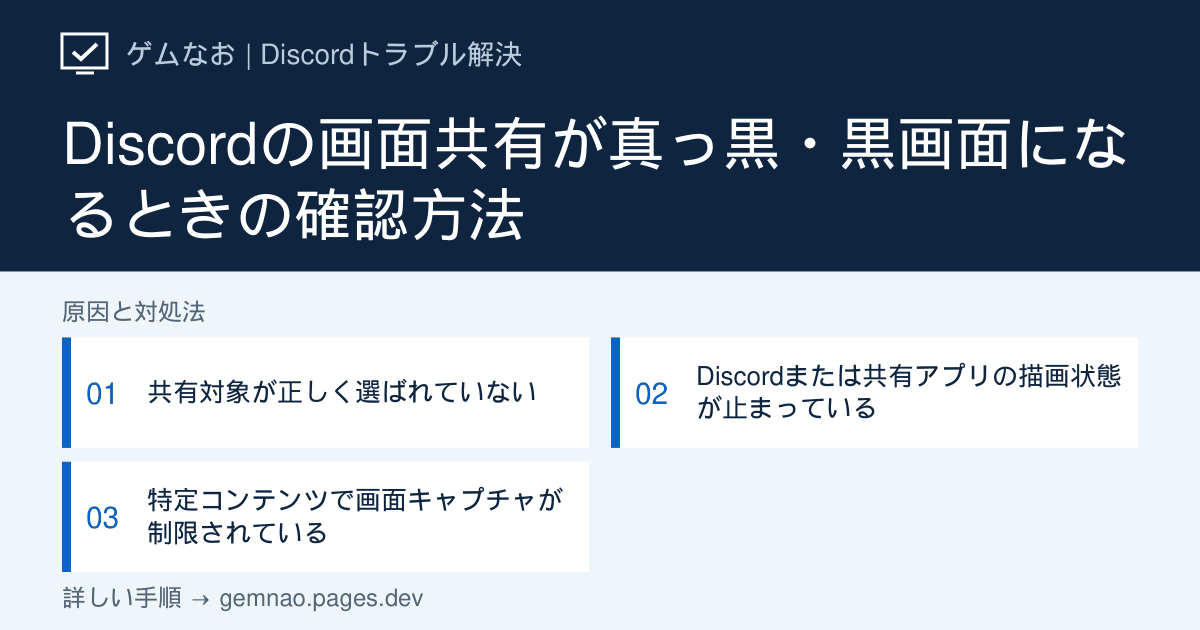
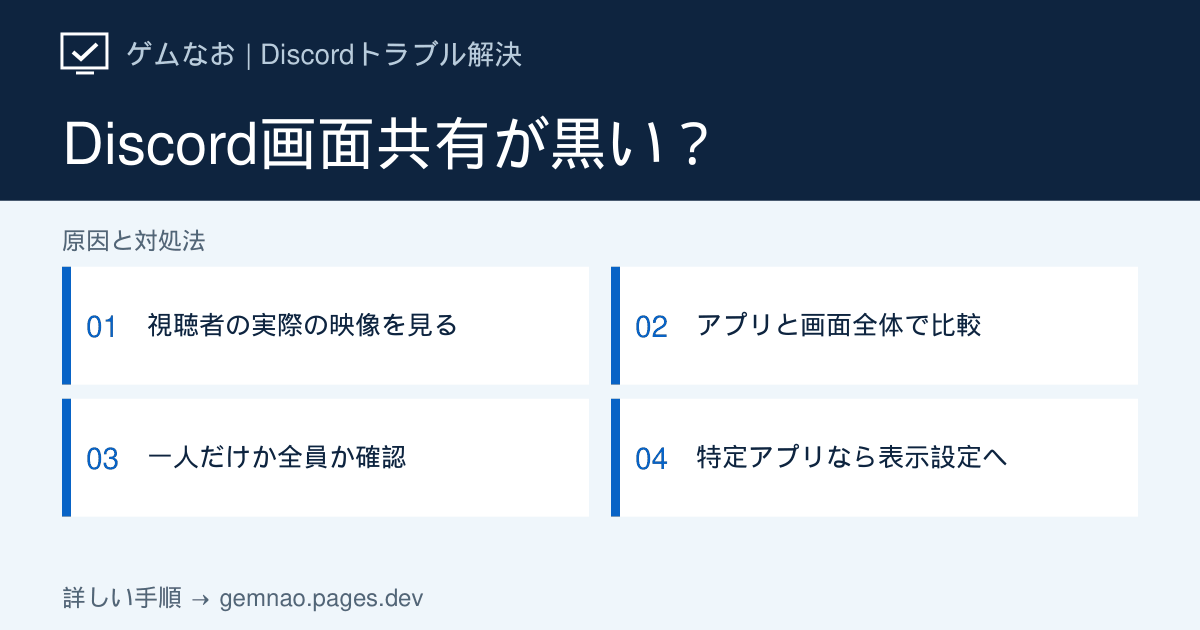
Rewrite Discord black screen sharing guide with viewer diagnosis

diff --git a/lib/discord-p0-articles.ts b/lib/discord-p0-articles.ts
@@ -732,77 +732,169 @@ export const discordP0Articles: DiscordArticle[] = [
   {
     slug: 'screen-share-black-screen',
     category: 'screen',
-    title: 'Discordの画面共有が真っ黒・黒画面になるときの確認方法',
+    title:
+      'Discord画面共有が黒いときの直し方｜配信者・視聴者・特定アプリで切り分け',
     shortTitle: '画面共有が真っ黒になる',
-    seoTitle: 'Discordの画面共有が真っ黒・黒画面になるときの確認方法',
+    seoTitle:
+      'Discord画面共有が黒い原因と直し方｜視聴者だけ・特定アプリだけ黒い場合',
     metaDescription:
-      'Discordの画面共有が真っ黒で相手に映らない場合の確認方法。共有対象、Discordの再起動、OS権限、保護コンテンツかを順に切り分けます。',
+      'Discordの画面共有が黒いとき、配信者の小窓と視聴者の実際の画面を比較。アプリ共有・画面全体共有と複数視聴者で切り分け、結果ごとの対処を解説。',
     symptom:
-      'Discordの画面共有は開始できるのに相手側では映像が黒い、または特定のゲーム・アプリだけ真っ黒になる場合の手順です。',
+      'DiscordでGo Liveは始まったのに、配信者の小窓が黒い、視聴者にだけ真っ黒に映る、特定のゲームやアプリだけ黒い。誰のどの画面が黒いかで次の確認先が変わります。',
     target: 'Windows版 Discordデスクトップアプリの画面共有・Go Live',
     conclusion:
-      '共有対象を選び直し、Discordと共有アプリを再起動します。通常のアプリは映るのに特定コンテンツだけ黒い場合は、コンテンツ側のキャプチャ制限も切り分けてください。',
+      '配信者のゲーム本体・Discordの小窓・視聴者が「配信を見る」で開いた映像を別々に確認します。視聴者も黒ければ、同じメモ帳の文字入力を「アプリ共有」と「画面全体共有」で比べ、特定アプリの取得か視聴者側かを絞ります。',
     quickFixes: [
-      '画面共有を止め、共有するゲームまたはアプリを選び直す',
-      'Discordと共有対象アプリを完全終了して起動し直す',
-      '通常アプリも黒いか、特定コンテンツだけ黒いか確認する',
+      '視聴者に同じボイスチャンネルで「配信を見る」を開いてもらい、配信者の小窓と結果を比べる',
+      'メモ帳のウィンドウを共有して文字を打ち、同じ視聴者に文字が動いて見えるか確認する',
+      '共有を止めて「画面」から対象ディスプレイ全体を選び、同じメモ帳・同じ視聴者で比較する',
+    ],
+    diagnosisTitle: '誰の画面が黒い？ 結果別の判定表',
+    diagnosisIntro:
+      '配信者の小窓・視聴者の実際の視聴画面・共有したいアプリ本体を区別します。別の視聴者にも同じ対象が見えるか確認してください。',
+    diagnosis: [
+      {
+        symptom: '配信者のゲーム本体まで黒い',
+        check:
+          'Discordを止めてもゲーム本体は黒いか。画面共有ではなくゲームの表示問題か',
+        causeIndex: 1,
+      },
+      {
+        symptom: '配信者の小窓・一覧のプレビューだけ黒く、視聴者には映る',
+        check:
+          '視聴者は「配信を見る」で実際の映像を開いたか。文字入力は見えるか',
+        causeIndex: 1,
+      },
+      {
+        symptom: '配信者のゲームは正常だが、視聴者全員に黒い',
+        check: 'メモ帳のアプリ共有と画面全体共有でも同じか',
+        causeIndex: 2,
+      },
+      {
+        symptom: '一人だけ黒く、別の視聴者には映る',
+        check: '両者が同じチャンネル・同じ配信を開いたか',
+        causeIndex: 3,
+      },
+      {
+        symptom: '特定アプリの共有だけ黒い／画面全体なら映る',
+        check: 'メモ帳のアプリ共有は映るか。ゲームは全画面表示か',
+        causeIndex: 4,
+      },
+      {
+        symptom: 'メモ帳も画面全体も複数人に黒い',
+        check: 'Discordの再起動後も、同じ視聴者で両方黒いか',
+        causeIndex: 5,
+      },
+      {
+        symptom: '通常ページは映るが動画の領域だけ黒い',
+        check: '動画サービスの保護コンテンツに限るか',
+        causeIndex: 4,
+      },
     ],
     causes: [
       {
-        title: '共有対象が正しく選ばれていない',
+        title: '最初に「配信者の小窓」と「視聴者の配信画面」を区別する',
         description:
-          '画面全体とアプリ単体では取得方法が異なるため、共有したいアプリを選び直します。',
+          '配信者の小窓や一覧のプレビューが止まっても、視聴者が開いた配信は動いている場合があります。共有したいアプリ本体まで黒いならゲーム・画面の問題を先に調べます。',
         actions: [
-          'いったん画面共有を停止する',
-          '共有したいゲームまたはアプリを先に起動する',
-          'Discordで対象アプリのウィンドウを選ぶ',
-          '共有を開始し、相手側の映像を確認する',
+          '配信者はゲーム／アプリ本体が自分の画面で正常に見えるか確認する。共有をやめても本体が黒いなら、ゲームやWindowsの画面表示を調べる。',
+          '視聴者は同じボイスチャンネルで配信者の名前を押し「配信を見る」から実際の配信を開く。一覧の小さなプレビューだけで判定しない。',
+          '配信者の小窓だけ黒い・一時停止でも、視聴者に文字やゲーム画面が動いて見えれば共有はできている。視聴者も黒いなら次の比較へ進む。',
+        ],
+        note: 'Discord公式は、一覧の配信プレビューを隠せることと、ゲームを前面にすると配信者側のPiPが一時停止することを案内しています。',
+      },
+      {
+        title: '同じメモ帳をアプリ共有と画面全体共有で比べる',
+        description:
+          '変えるのはDiscordで選ぶ共有対象だけ。配信者が同じ文字を入力し、同じ視聴者が2通りの映像を比べます。',
+        actions: [
+          '配信者はメモ帳を開き、ボイスチャンネルの「画面を共有」で「アプリ」からメモ帳のウィンドウを選び、Go Liveを開始する。視聴者に「配信を見る」を開いてもらい、文字を一文字入力して見えるか聞く。',
+          '一度共有を停止し、今度は「画面」からメモ帳を表示しているディスプレイ全体を選ぶ。同じ視聴者に同じメモ帳の文字入力が見えるか聞く。',
+          'アプリ共有だけ黒いならウィンドウ取得や対象選択を疑い、原因4へ。両方全員に黒いなら原因5へ。一人だけ黒いなら原因3へ。両方映るなら元のゲーム／アプリに対象を替えて再比較する。',
+        ],
+        note: '画面全体の共有では通知や別ウィンドウも相手に見えます。テスト前に個人情報のある画面・通知を閉じてください。音声の有無はこの映像比較とは別に判断します。',
+      },
+      {
+        title: '一人の視聴者だけ黒いなら、同じ配信を二人で開く',
+        description:
+          '別の人が同じ配信を正常に視聴できるなら、配信者の画面取得より、黒く見える人の視聴状態を先に確認します。',
+        actions: [
+          '二人目にも同じボイスチャンネルへ入り、同じ配信者の名前から「配信を見る」を開いてもらう。両者が同時にメモ帳の文字入力を見られるか聞く。',
+          '二人目は正常で一人目だけ黒い場合、一人目は配信を閉じ、同じチャンネルへ入り直して同じ配信を開く。Discordアプリを再起動しても変わらなければ、その人の回線・アプリ更新状況を調べる。',
+          '二人とも黒いなら視聴者個別の設定変更を続けず、アプリと画面全体の比較結果を使い、原因4または5へ進む。',
         ],
       },
       {
-        title: 'Discordまたは共有アプリの描画状態が止まっている',
+        title: '特定アプリだけ黒いなら表示モードと共有対象を調べる',
         description:
-          '一時的な描画・取得の状態をリセットするため、両方のアプリを完全終了します。',
+          'メモ帳は映るのにゲームだけ黒い、またはゲームのアプリ共有だけ黒い場合は、そのウィンドウの取得方法を比べます。保護された動画領域だけ黒い場合は別です。',
         actions: [
-          'Discordを通知領域から完全終了する',
-          '共有するゲームまたはアプリも終了する',
-          'Discordを起動してから共有対象アプリを起動する',
-          'もう一度アプリ単体を共有する',
+          'ゲーム／アプリを起動した状態で一度共有を止め、「アプリ」一覧から実際に表示中のウィンドウを選ぶ。ゲーム本体とランチャーが別なら、本体を選ぶ。',
+          'ゲームが全画面表示なら、ゲーム内の表示設定で「ボーダーレス」または「ウィンドウ」に変更して共有し直し、同じ視聴者で比較する。Discord公式はWindowsで全画面専有と画面取得方式の相性を案内している。',
+          'そのアプリだけ黒く画面全体では映るならアプリの取得方法が原因候補。通常ページは映るが特定の保護された動画の領域だけ黒いなら、提供元の許可する視聴・共有方法を確認する。',
         ],
+        note: '全画面表示への変更は必ず元の設定を控えてから行います。保護コンテンツのキャプチャ制限を回避する操作は案内しません。',
       },
       {
-        title: '特定コンテンツで画面キャプチャが制限されている',
+        title: '普通のアプリも画面全体も全員に黒い場合を調べる',
         description:
-          '著作権保護などにより、特定の動画だけ画面キャプチャが制限される場合があります。',
+          '共有方式とアプリを替えても黒い場合は、配信者側のDiscordと描画環境を同じ対象で再確認します。',
         actions: [
-          'ブラウザの通常ページや別アプリが共有できるか確認する',
-          '特定の動画・サービスだけ黒いか切り分ける',
-          '制限を回避せず、提供元が認める視聴・共有方法を利用する',
+          'Discordをタスクトレイから完全終了して再起動し、メモ帳のアプリ共有・画面全体共有を同じ視聴者にもう一度見てもらう。Discord Statusに障害情報があるか確認する。',
+          'Discordの歯車→「音声・ビデオ」→「ビデオ」の「ハードウェアアクセラレーション」を有効から無効へ切り替え、Discordを再起動して同じ対象で比較する。変化がなければ元へ戻す。',
+          '続く場合はWindowsとGPUドライバーを公式の方法で更新し、Discord公式の画面共有トラブルシューティングを確認する。映像が黒いのではなく頻繁に止まるなら、配信画質とフレームレートを下げて比較する。',
         ],
+        note: '設定の表示位置はDiscordの更新で変わる場合があります。配信開始ボタン自体が押せない場合は関連記事「画面共有できない」で通話・権限から確認してください。',
       },
     ],
     ifNotFixed:
-      '通常のアプリやデスクトップも黒い場合は、Discordを最新版へ更新し、別の共有対象でも再現するか確認してください。ゲーム名・アプリ名、共有方法、黒画面のスクリーンショットを添えて公式サポートへ連絡します。',
+      'Discord公式サポートには、①配信者のゲーム本体／小窓／視聴者のどこが黒いか、②メモ帳のアプリ共有と画面全体共有の結果、③何人中何人に黒いか、④問題のアプリ名・表示モード、⑤再起動・設定変更の結果を添えて相談してください。視聴者に見えているのに配信者の小窓だけ黒いなら、まず実際の視聴結果を優先します。',
     faqs: [
       {
-        question: '音は出るのに画面だけ黒い場合は？',
+        question:
+          '配信者の小窓だけ黒く、視聴者には映ります。直す必要がありますか？',
         answer:
-          '共有対象をアプリ単体で選び直し、通常アプリでも同じ症状か確認してください。音声共有のエラーとは分けて切り分けます。',
+          '視聴者が「配信を見る」で開いた映像に文字入力やゲームの動きが見えれば、共有自体は正常です。Discord公式はプレビューの非表示と、ゲームが前面にある間のPiP一時停止を案内しています。',
       },
       {
-        question: '特定の動画サービスだけ真っ黒です',
+        question: 'アプリ共有は黒いのに、画面全体共有は映るのはなぜ？',
         answer:
-          '保護されたコンテンツでは画面キャプチャが制限される場合があります。制限を回避する方法ではなく、提供元の正式な視聴・共有方法を利用してください。',
+          'アプリ単体の取得方法や選んだウィンドウが関係している可能性があります。ゲーム本体のウィンドウを選び直し、全画面専有ならボーダーレスへ切り替えて同じ視聴者で確認してください。画面全体には通知も映るため公開範囲に注意してください。',
       },
       {
-        question: 'ゲームだけ黒画面になります',
+        question: '自分の画面では正常なのに、一人の視聴者にだけ黒く映ります',
         answer:
-          'ゲームを起動してからアプリ単体を共有し直し、別のゲームやアプリでは映るか確認してください。特定タイトルだけならゲーム固有の描画方式との相性が考えられます。',
+          'もう一人に同じチャンネルから同じ配信を開いてもらい、同時に映るか比べます。二人目に映るなら、黒く見える人が配信に入り直し、Discordと回線の状態を確認してください。',
+      },
+      {
+        question: 'ブラウザーは映るのに動画部分だけ黒い場合は？',
+        answer:
+          'コンテンツ側の保護によって映像部分の取得が制限されることがあります。ほかの通常アプリは映るかを確認し、提供元の許可する視聴・共有方法を利用してください。',
       },
     ],
-    sources: [official('33030151293079', '音声・ビデオ・配信ガイド')],
+    sources: [
+      official('360040816151', 'Go Live・画面共有と視聴・プレビュー'),
+      {
+        label: 'Discord公式：Windowsでのアプリウィンドウの取得方式（英語）',
+        url: 'https://support.discord.com/hc/en-us/articles/9410427556375--Windows-Capturing-Application-Window-for-Screen-Share-and-Go-Live',
+      },
+      voiceVideoGuide,
+      official('33030151293079', '音声・ビデオ・配信ガイド'),
+      {
+        label: 'Microsoft公式：保護された動画の画面取得制限（英語）',
+        url: 'https://learn.microsoft.com/en-us/windows-hardware/drivers/display/desktop-duplication-api',
+      },
+      status,
+    ],
     related: ['screen-share-not-working', 'stream-no-audio', 'error-1001'],
-    checkedAt: '2026-09-17',
+    checkedAt: '2026-09-27',
     status: 'verified',
+    ogTitle: 'Discord画面共有が黒い？',
+    ogSteps: [
+      '視聴者の実際の映像を見る',
+      'アプリと画面全体で比較',
+      '一人だけか全員か確認',
+      '特定アプリなら表示設定へ',
+    ],
   },
 ];

diff --git a/lib/og-image-manifest.ts b/lib/og-image-manifest.ts
@@ -25,7 +25,7 @@ export const ogImageManifest: Record<string, string> = {
   "/discord/notifications-not-working": "1ed1422d",
   "/discord/overlay-not-showing": "7aff7383",
   "/discord/phone-verification-error": "2e66c5cd",
-  "/discord/screen-share-black-screen": "038074d8",
+  "/discord/screen-share-black-screen": "27a28c0d",
   "/discord/screen-share-not-working": "950ea3dc",
   "/discord/slow-performance": "b69eb26c",
   "/discord/stream-no-audio": "bfb2ee4d",
